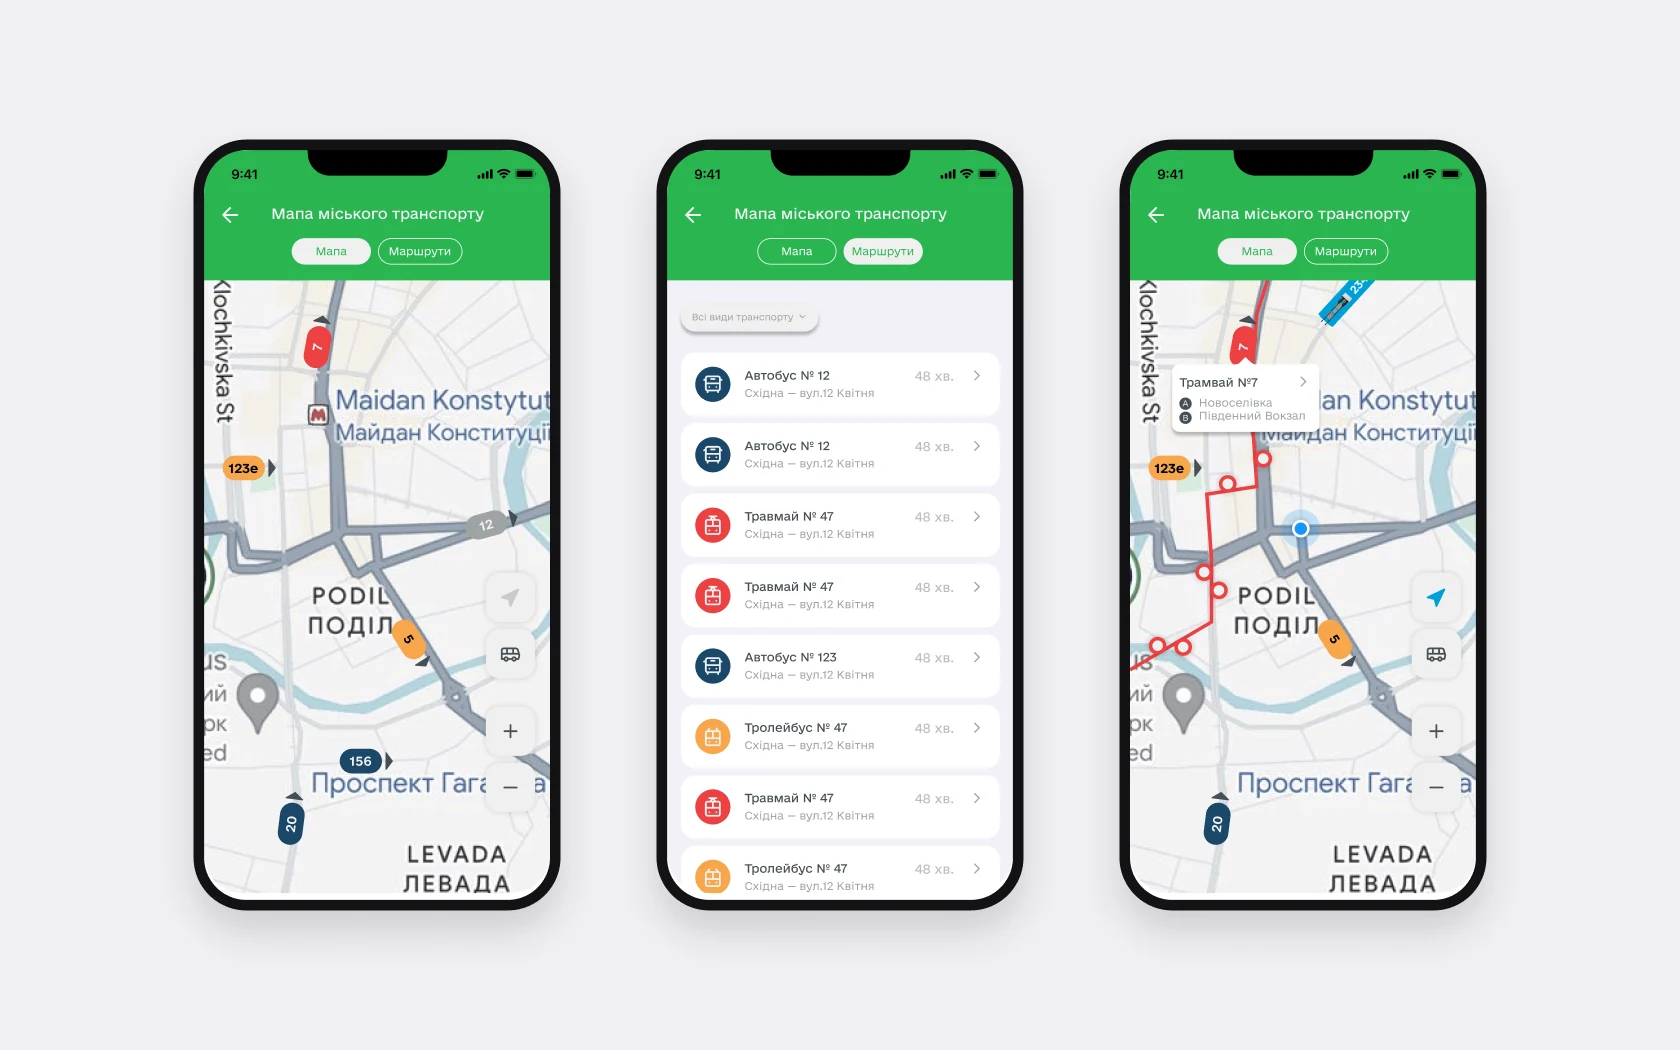
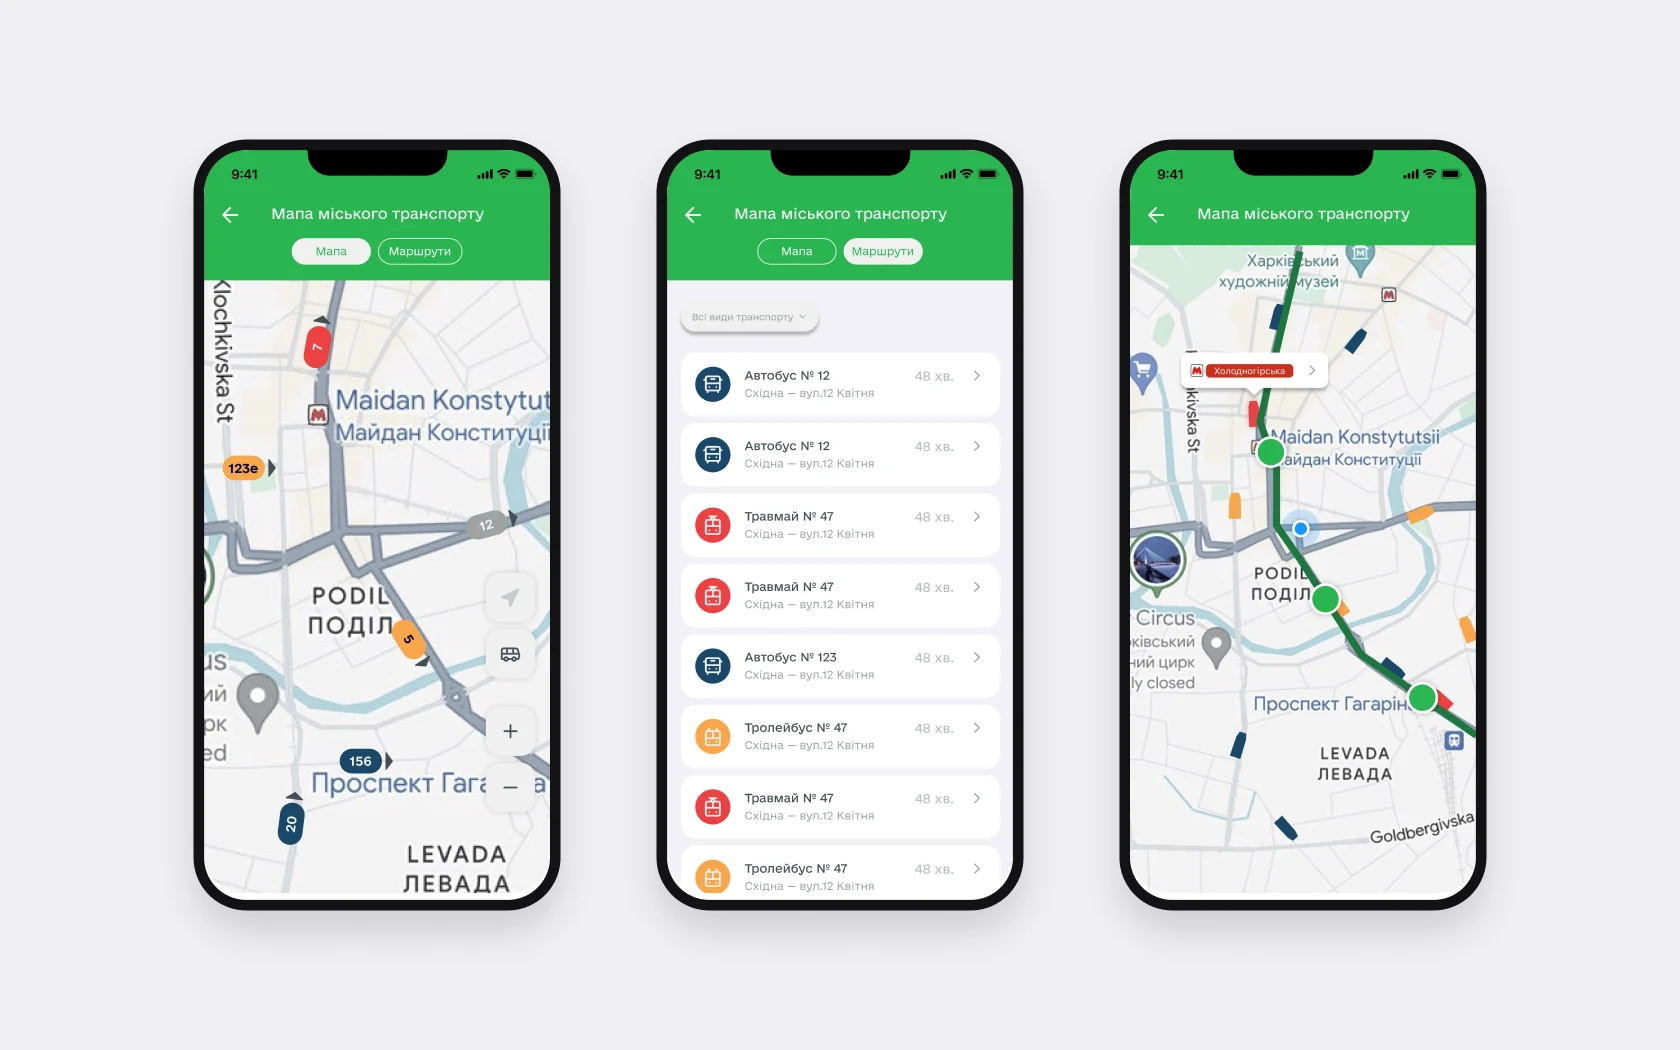
Open Kharkiv: old metro route in transport before
Claude-Session: https://claude.ai/code/session_01T4TwY1FkzQuYpYsjrctidp

Changed region(s): [[0.65, 0.2133, 0.8976, 0.8533], [0.8667, 0.579, 0.8976, 0.6095]]

diff --git a/ua/work/open-kharkiv.html b/ua/work/open-kharkiv.html
@@ -71,15 +71,15 @@
 <span class="label">Рішення 04</span>
 <h3>Транспорт і метро</h3>
 <dl class="d2-dl"><div><dt>Чому</dt><dd>Назви й CTA були неочевидні, пошук і розклади потребували переробки, кінцеві станції не мали своїх сценаріїв, а метро в застосунку не було зовсім.</dd></div><div><dt>Що зробила</dt><dd>Нові назви й CTA, пошук, структура розкладів, сценарії для кінцевих, нове метро з гілками, розкладом і виходами, ліміт обраних маршрутів. Окремі стани: повітряна тривога на мапі, офлайн, геолокація вимкнена.</dd></div><div><dt>Результат</dt><dd>У метро видно напрямки, розклад буднів і вихідних та відкриті виходи, а на мапі – інклюзивний транспорт.</dd></div></dl><p class="d-status"><span>Статус</span>Флоу погодили із замовником. Розклад потім кілька разів переробляли на його запит, тестів із людьми не було.</p>
-<figure><div class="ba" style="--p:50%;aspect-ratio:1680/1050"><img alt="Стало: мапа міського транспорту, маршрути на зупинці, маршрут метро на мапі" class="ba-a" decoding="async" height="1050" loading="lazy" src="../../assets/cases/open-kharkiv/ok-after-transport.webp" width="1680"/><img alt="Було: мапа міського транспорту, список маршрутів, маршрут трамвая на мапі" class="ba-b" decoding="async" height="1050" loading="lazy" src="../../assets/cases/open-kharkiv/ok-before-transport.webp" width="1680"/><span class="ba-tag l">Було</span><span class="ba-tag r">Стало</span><span aria-hidden="true" class="ba-line"><i>‹ ›</i></span><input aria-label="Порівняти: було і стало" max="100" min="0" step="1" type="range" value="50"/></div><figcaption><span class="cap-l">Було: мапа, список маршрутів, маршрут трамвая</span><span class="cap-l">Стало: мапа, маршрути на зупинці, нове метро</span></figcaption></figure>
+<figure><div class="ba" style="--p:50%;aspect-ratio:1680/1050"><img alt="Стало: мапа міського транспорту, маршрути на зупинці, маршрут метро на мапі" class="ba-a" decoding="async" height="1050" loading="lazy" src="../../assets/cases/open-kharkiv/ok-after-transport.webp" width="1680"/><img alt="Було: мапа міського транспорту, список маршрутів, маршрут метро на мапі" class="ba-b" decoding="async" height="1050" loading="lazy" src="../../assets/cases/open-kharkiv/ok-before-transport.webp" width="1680"/><span class="ba-tag l">Було</span><span class="ba-tag r">Стало</span><span aria-hidden="true" class="ba-line"><i>‹ ›</i></span><input aria-label="Порівняти: було і стало" max="100" min="0" step="1" type="range" value="50"/></div><figcaption><span class="cap-l">Було: мапа, список маршрутів, маршрут метро</span><span class="cap-l">Стало: мапа, маршрути на зупинці, нове метро</span></figcaption></figure>
 </div></div></section>
-<section class="row case-sec" id="op-new"><span class="label">Нове</span><div class="content"><h2>Нове, чого не було</h2><div class="txt"><p>У старій версії цих сервісів не було. Найбільші з моїх – звернення до депутата й заява «Захисникам».</p></div><div class="d2">
+<section class="row case-sec" id="op-new"><span class="label">Нове</span><div class="content"><h2>Нове, чого не було</h2><div class="txt"><p>У старій версії цих сервісів не було. Найбільші з моїх – звернення до депутата й запис у «Захисникам».</p></div><div class="d2">
 <h3>«Мій депутат»: звернення з прозорими статусами</h3>
 <div class="txt"><p>Людина надсилала звернення і не розуміла, що з ним і де шукати відповіді. Тепер статуси, причина, якщо звернення не розглядають, і вся історія відповідей – у картці звернення, разом із документами й оцінкою.</p></div>
 <figure><img alt="Шлях звернення і його статуси" class="gl" decoding="async" height="519" loading="lazy" src="../../assets/cases/open-kharkiv/d-request.webp" width="1560"/></figure>
 </div><div class="d2">
-<h3>«Захисникам»: від паперу до мобільної форми</h3>
-<div class="txt"><p>Заяву на квартирний облік подавали на папері. Тепер форма з повторюваними блоками для членів сімʼї й документів, валідація, підтвердження подання й статуси.</p></div>
+<h3>«Захисникам»: запис до установи з телефона</h3>
+<div class="txt"><p>Людина обирає категорію звернення, читає опис послуги, обирає дату й вільний час і заповнює дані заявника. Після запису – талон із деталями, а сам запис зʼявляється в списку на головній сервісу. Установу можна знайти на мапі або списком, з фільтрами за районом і типом. Окремі стани: немає вільного часу на дату, не вдалося записатися, запис скасовано установою, візит пропущено.</p></div>
 <figure><img alt="Захисникам: категорії, вибір часу, дані заявника" class="gl" decoding="async" height="1040" loading="lazy" src="../../assets/cases/open-kharkiv/07.webp" width="1560"/><figcaption>«Захисникам» · вибір часу · дані заявника</figcaption></figure>
 </div><div class="d2">
 <h3>Фільтри на одному екрані, текст, який можна читати</h3>

diff --git a/work/open-kharkiv.html b/work/open-kharkiv.html
@@ -71,15 +71,15 @@
 <span class="label">Decision 04</span>
 <h3>Transport and metro</h3>
 <dl class="d2-dl"><div><dt>Why</dt><dd>Names and CTAs were unclear, search and timetables needed rework, and end stations had no scenarios of their own, and the app had no metro at all.</dd></div><div><dt>What I did</dt><dd>New names and CTAs, search, timetable structure, end-station scenarios, a new metro section with lines, timetables and exits, a limit on saved routes. Separate states: air-raid alert on the map, offline, location off.</dd></div><div><dt>Result</dt><dd>The metro shows directions, weekday and weekend timetables and open exits; the map shows accessible transport.</dd></div></dl><p class="d-status"><span>Status</span>The flows were approved by the client. The timetable was reworked several times at their request; no testing with people.</p>
-<figure><div class="ba" style="--p:50%;aspect-ratio:1680/1050"><img alt="After: city transport map, routes at a stop, a metro route on the map" class="ba-a" decoding="async" height="1050" loading="lazy" src="../assets/cases/open-kharkiv/ok-after-transport.webp" width="1680"/><img alt="Before: city transport map, the list of routes, a tram route on the map" class="ba-b" decoding="async" height="1050" loading="lazy" src="../assets/cases/open-kharkiv/ok-before-transport.webp" width="1680"/><span class="ba-tag l">Before</span><span class="ba-tag r">After</span><span aria-hidden="true" class="ba-line"><i>‹ ›</i></span><input aria-label="Compare: before and after" max="100" min="0" step="1" type="range" value="50"/></div><figcaption><span class="cap-l">Before: map, list of routes, a tram route</span><span class="cap-l">After: map, routes at a stop, the new metro</span></figcaption></figure>
+<figure><div class="ba" style="--p:50%;aspect-ratio:1680/1050"><img alt="After: city transport map, routes at a stop, a metro route on the map" class="ba-a" decoding="async" height="1050" loading="lazy" src="../assets/cases/open-kharkiv/ok-after-transport.webp" width="1680"/><img alt="Before: city transport map, the list of routes, a metro route on the map" class="ba-b" decoding="async" height="1050" loading="lazy" src="../assets/cases/open-kharkiv/ok-before-transport.webp" width="1680"/><span class="ba-tag l">Before</span><span class="ba-tag r">After</span><span aria-hidden="true" class="ba-line"><i>‹ ›</i></span><input aria-label="Compare: before and after" max="100" min="0" step="1" type="range" value="50"/></div><figcaption><span class="cap-l">Before: map, list of routes, a metro route</span><span class="cap-l">After: map, routes at a stop, the new metro</span></figcaption></figure>
 </div></div></section>
-<section class="row case-sec" id="op-new"><span class="label">New</span><div class="content"><h2>New, not there before</h2><div class="txt"><p>The old version had none of these services. The biggest of mine are requests to a deputy and the “For Defenders” application.</p></div><div class="d2">
+<section class="row case-sec" id="op-new"><span class="label">New</span><div class="content"><h2>New, not there before</h2><div class="txt"><p>The old version had none of these services. The biggest of mine are requests to a deputy and the “For Defenders” booking.</p></div><div class="d2">
 <h3>“My deputy”: requests with clear statuses</h3>
 <div class="txt"><p>People sent a request and didn’t know what was happening with it or where to find replies. Now there are statuses, a reason if a request isn’t reviewed, and the whole reply history in the request card, with documents and a rating.</p></div>
 <figure><img alt="The path of a request and its statuses" class="gl" decoding="async" height="519" loading="lazy" src="../assets/cases/open-kharkiv/d-request.webp" width="1560"/></figure>
 </div><div class="d2">
-<h3>“For Defenders”: from paper to a mobile form</h3>
-<div class="txt"><p>The housing application used to be on paper. Now it’s a form with repeating blocks for family members and documents, validation, a submission confirmation and statuses.</p></div>
+<h3>“For Defenders”: booking a visit from the phone</h3>
+<div class="txt"><p>You pick a request category, read the service description, choose a date and a free time slot and fill in the applicant’s details. After booking there’s a ticket with the details, and the booking appears in the list on the service home. Institutions can be found on a map or in a list, filtered by district and type. Separate states: no free time on the date, booking failed, booking cancelled by the institution, missed visit.</p></div>
 <figure><img alt="For Defenders: categories, time picker, applicant details" class="gl" decoding="async" height="1040" loading="lazy" src="../assets/cases/open-kharkiv/07.webp" width="1560"/><figcaption>“For Defenders” · time picker · applicant details</figcaption></figure>
 </div><div class="d2">
 <h3>Filters on one screen, text you can read</h3>
